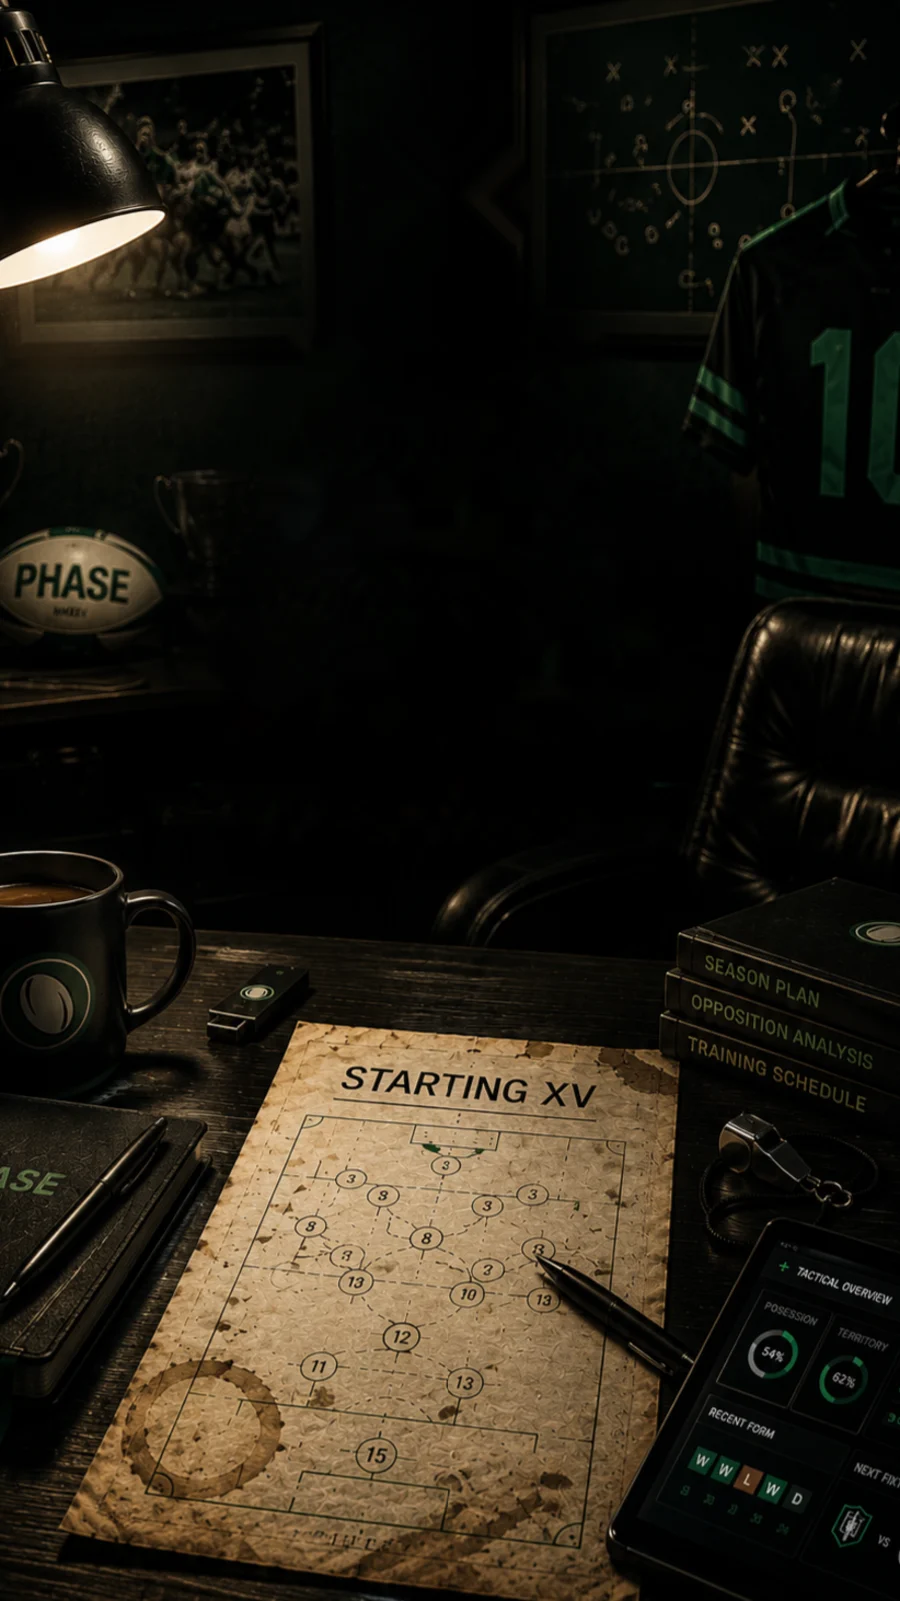
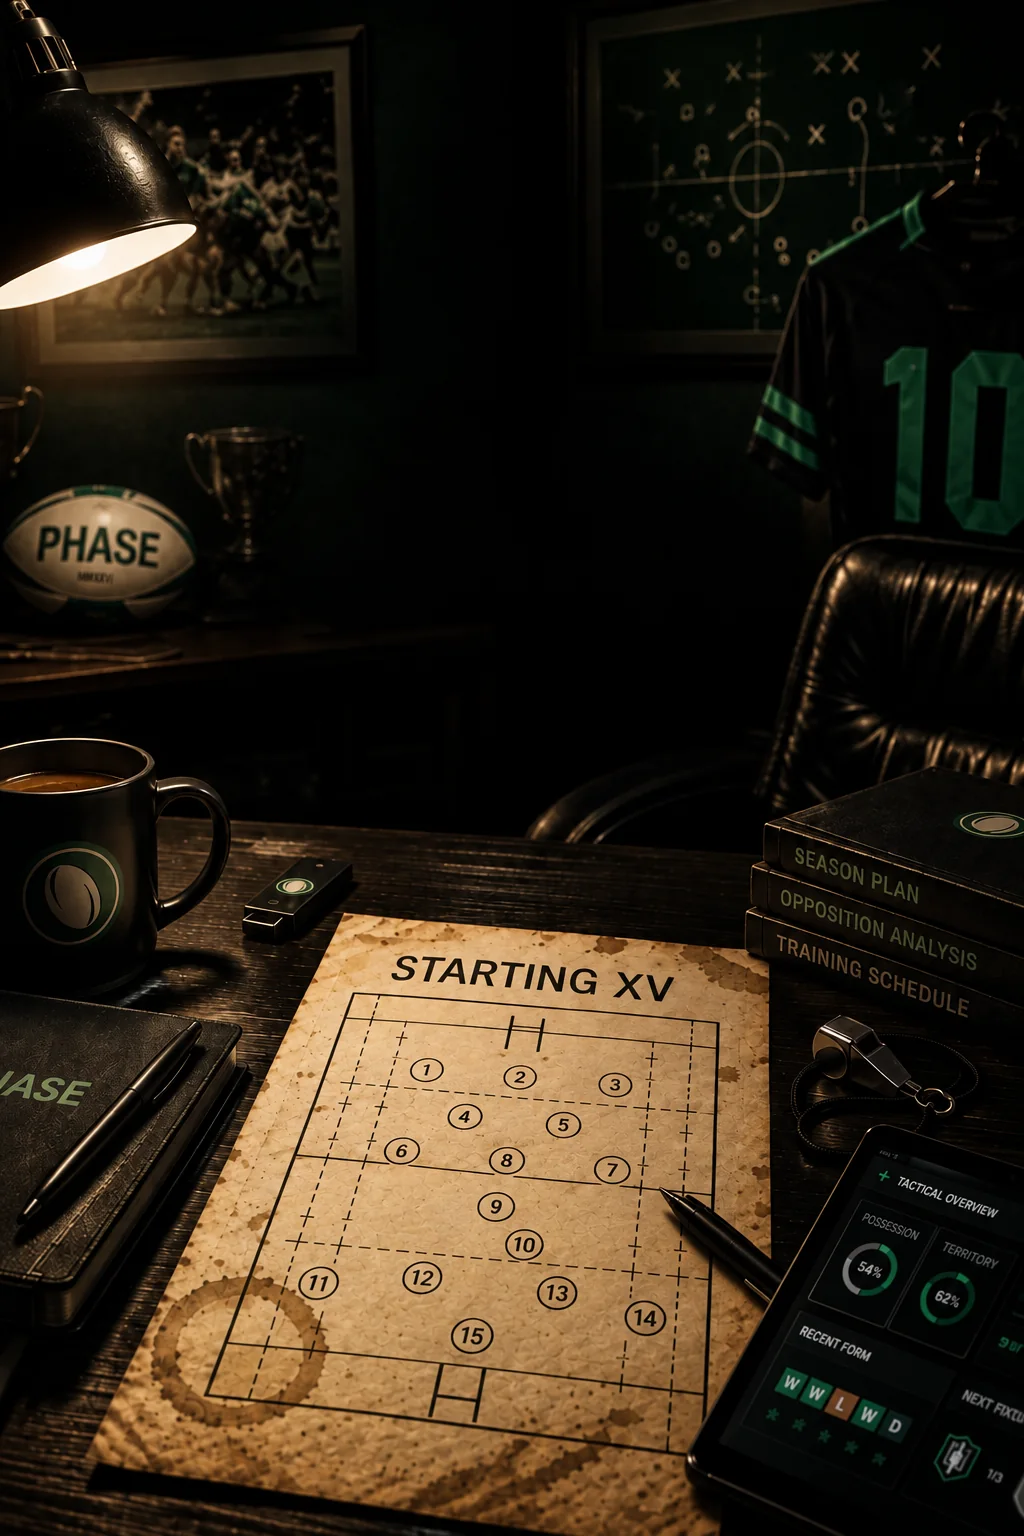
New key art: the STARTING XV sheet is a rugby pitch
Owner, 28 Sep 2026: "on the paperwork of the intro video the pitch on the
paper is a football pitch outline. Can we adjust this to a rugby outline?"
and then the redrawn art: posts at both ends, 5m and 22m lines, and the
fifteen shirts in formation. It replaces title-bg.webp (1024 x 1536). The
intro's lamp, steam and framed-match spots are re-measured off the new
picture, and both the intro and the title screen anchor the crop 6% from
the left so the mug stays in shot on a portrait phone. introprobe,
brandprobe and contrastprobe pass.

Claude-Session: https://claude.ai/code/session_019rwDxFWEwuYK7ZNhpgNECm

diff --git a/src/ui/Intro.tsx b/src/ui/Intro.tsx
@@ -49,15 +49,18 @@ export const INTRO_KEY = 'phase.intro'
 const LENGTH_MS = 5000
 let playedThisLaunch = false
 
-/** the art's own size, and where things are in it (fractions of the picture) */
-const ART = { w: 900, h: 1601 }
-/** where the crop sits across the art: left of centre, so the mug (far left
- *  of the picture) stays in frame on a portrait phone. theme.css matches it. */
-const POS_X = 0.2
+/** the art's own size, and where things are in it (fractions of the picture).
+ *  The key art was redrawn on 28 Sep 2026 (owner: the STARTING XV sheet showed
+ *  a football pitch; the new art has a rugby pitch, posts and all), so these
+ *  are measured off the new picture. */
+const ART = { w: 1024, h: 1536 }
+/** where the crop sits across the art: near the left edge, so the mug (far
+ *  left of the picture) stays in frame on a portrait phone. theme.css matches it. */
+const POS_X = 0.06
 const SPOT = {
-  mug: { x: 0.07, y: 0.552 },    // the coffee's surface
-  lamp: { x: 0.105, y: 0.158 },  // under the shade
-  tv: { x: 0.025, y: 0.028, w: 0.325, h: 0.186 }, // the framed match, top left
+  mug: { x: 0.059, y: 0.505 },   // the coffee's surface
+  lamp: { x: 0.088, y: 0.173 },  // under the shade
+  tv: { x: 0.054, y: 0.042, w: 0.283, h: 0.179 }, // the framed match, top left
 }
 
 export function introOn(): boolean {

diff --git a/src/ui/theme.css b/src/ui/theme.css
@@ -1023,7 +1023,7 @@ button.card { display: block; width: calc(100% - 28px); text-align: left; }
       rgba(8, 12, 10, 0.58) 58%,
       rgba(8, 12, 10, 0.88) 74%,
       rgba(8, 12, 10, 0.92) 100%),
-    url('./title-bg.webp') center center / cover no-repeat,
+    url('./title-bg.webp') 6% center / cover no-repeat,
     var(--canvas);
 }
 
@@ -4716,7 +4716,7 @@ button.chip { min-height: 36px; display: inline-flex; align-items: center; }
 /* the room: the art at cover, pushing in slowly for the whole five seconds */
 .intro-room { position: absolute; inset: 0; transform-origin: 30% 45%; animation: intro-push 5s linear both; }
 @keyframes intro-push { from { transform: scale(1); } to { transform: scale(1.07); } }
-.intro-art { position: absolute; inset: 0; background: var(--art) 20% center / cover no-repeat; } /* 20%: Intro.tsx POS_X */
+.intro-art { position: absolute; inset: 0; background: var(--art) 6% center / cover no-repeat; } /* 6%: Intro.tsx POS_X */
 
 /* the lamp catching: the room is black, then flickers up to a dim glow */
 .intro-dark {
